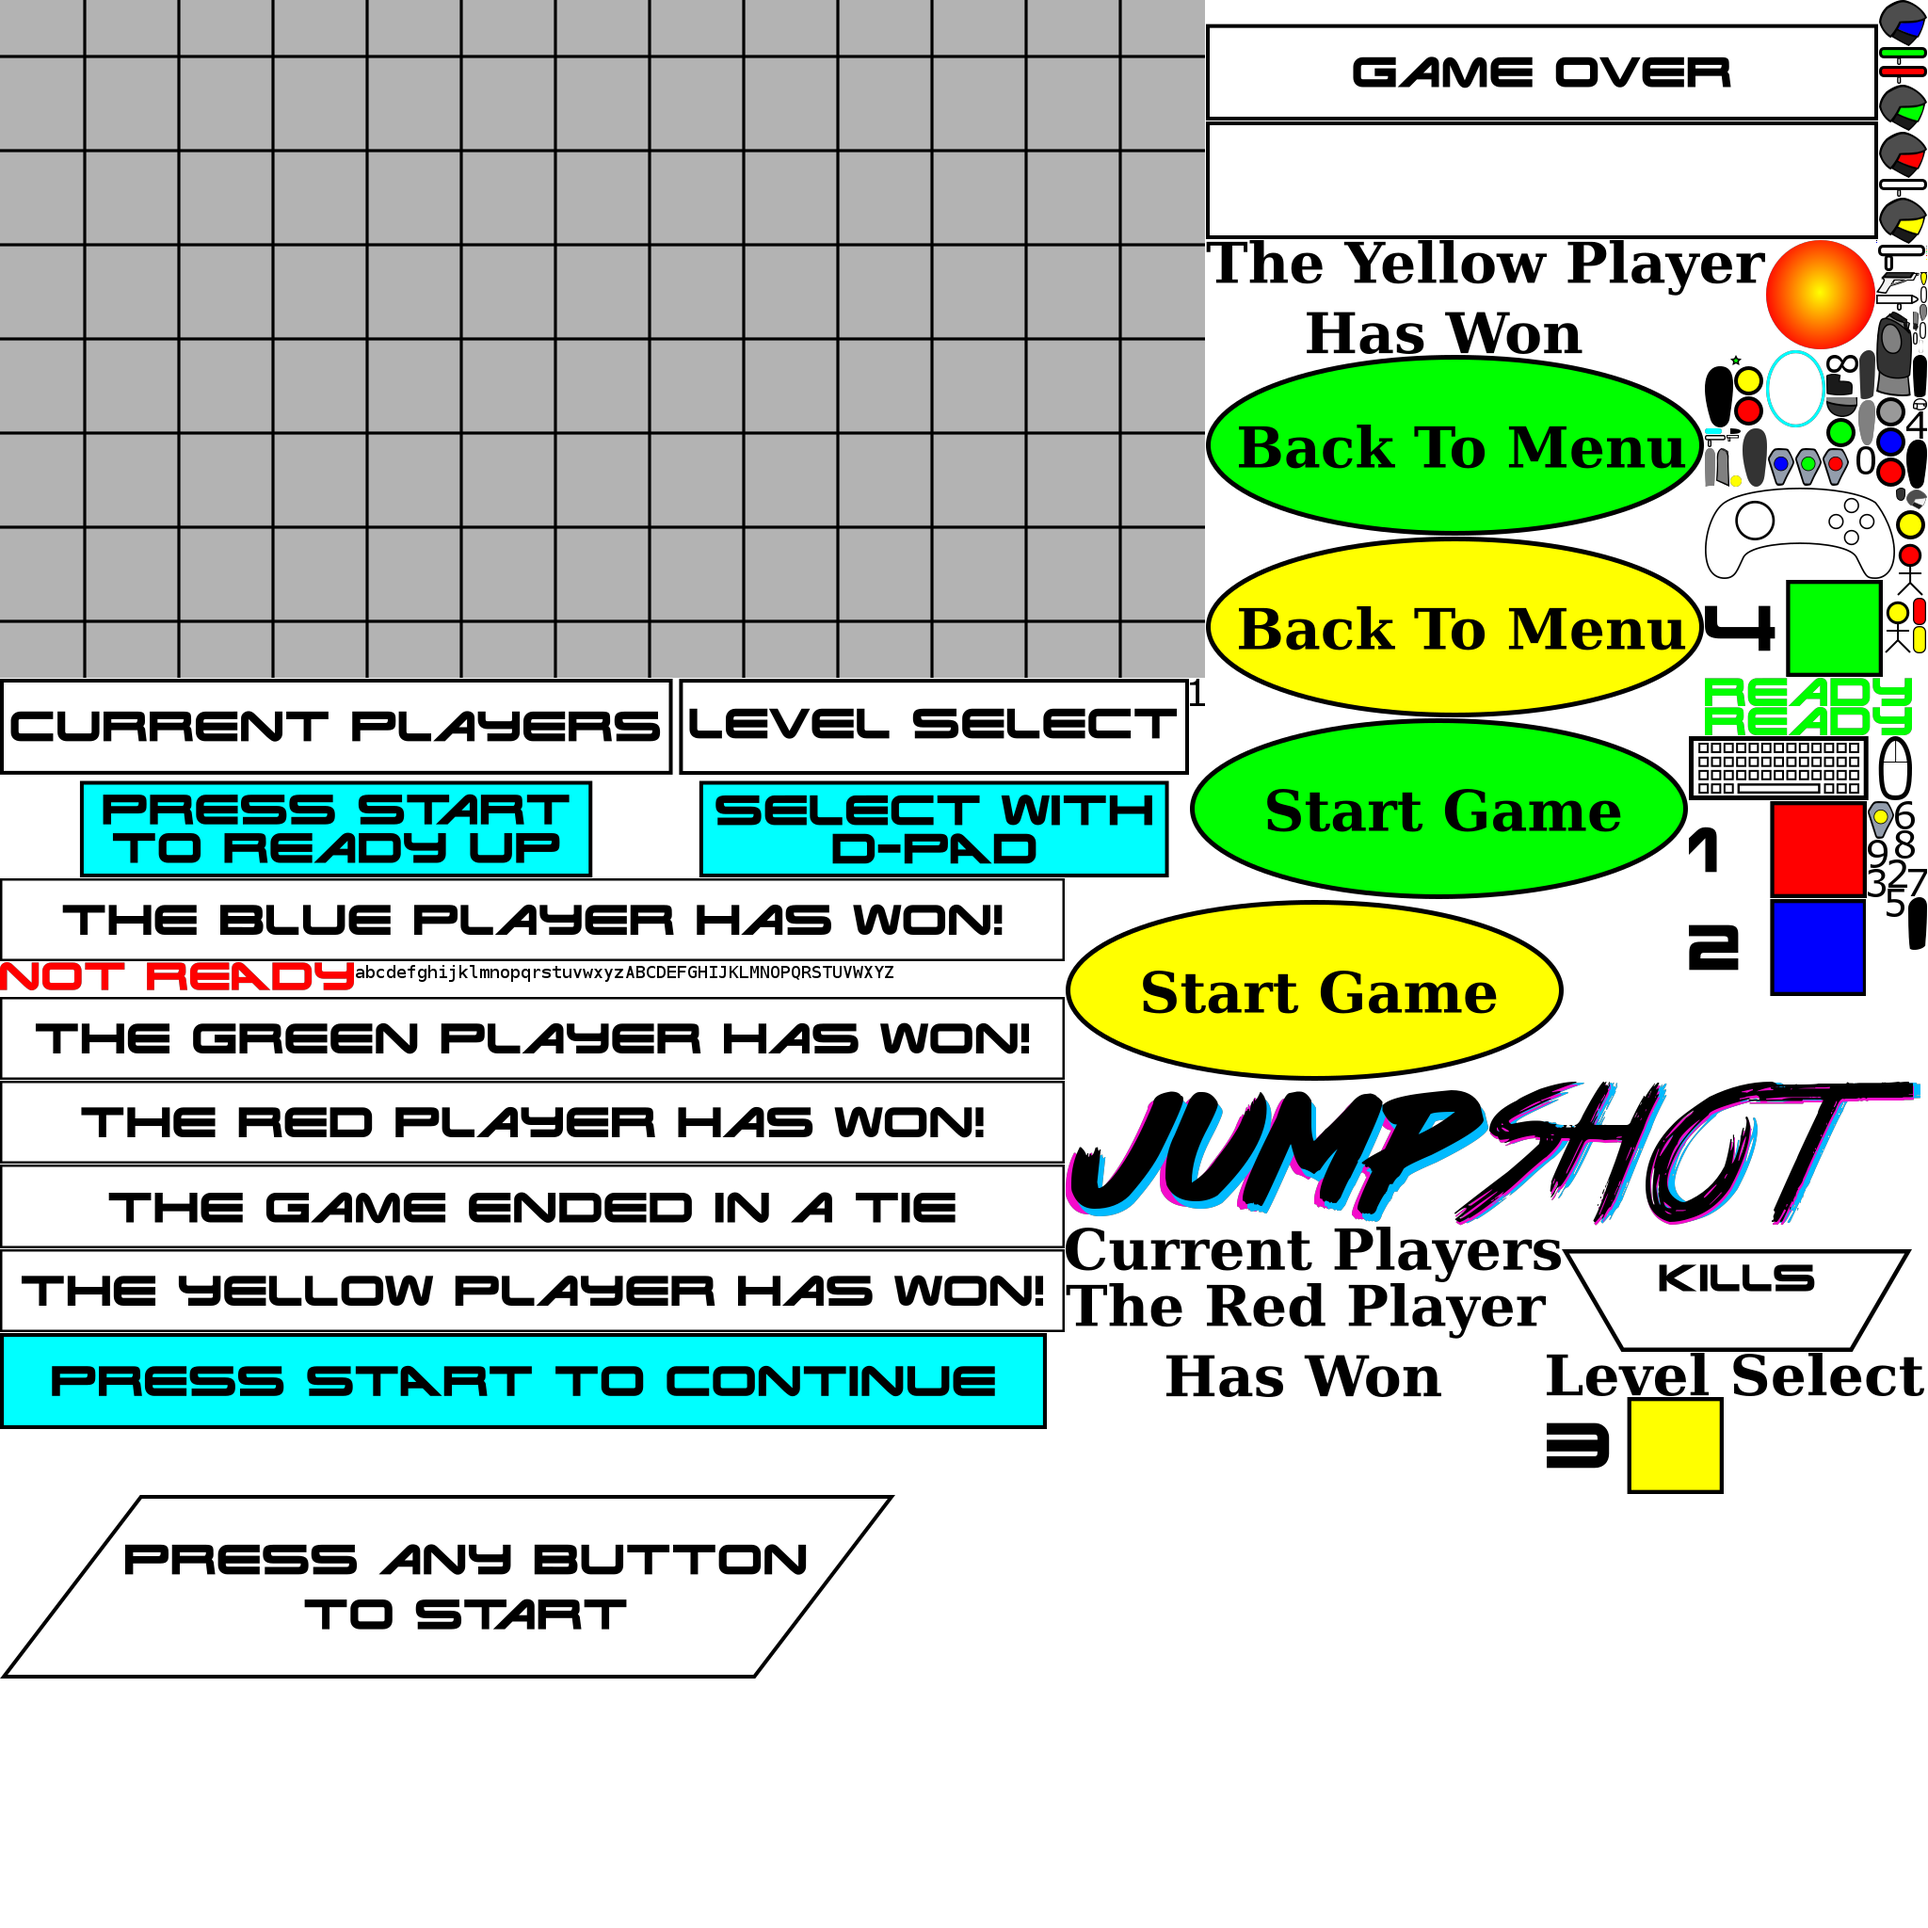
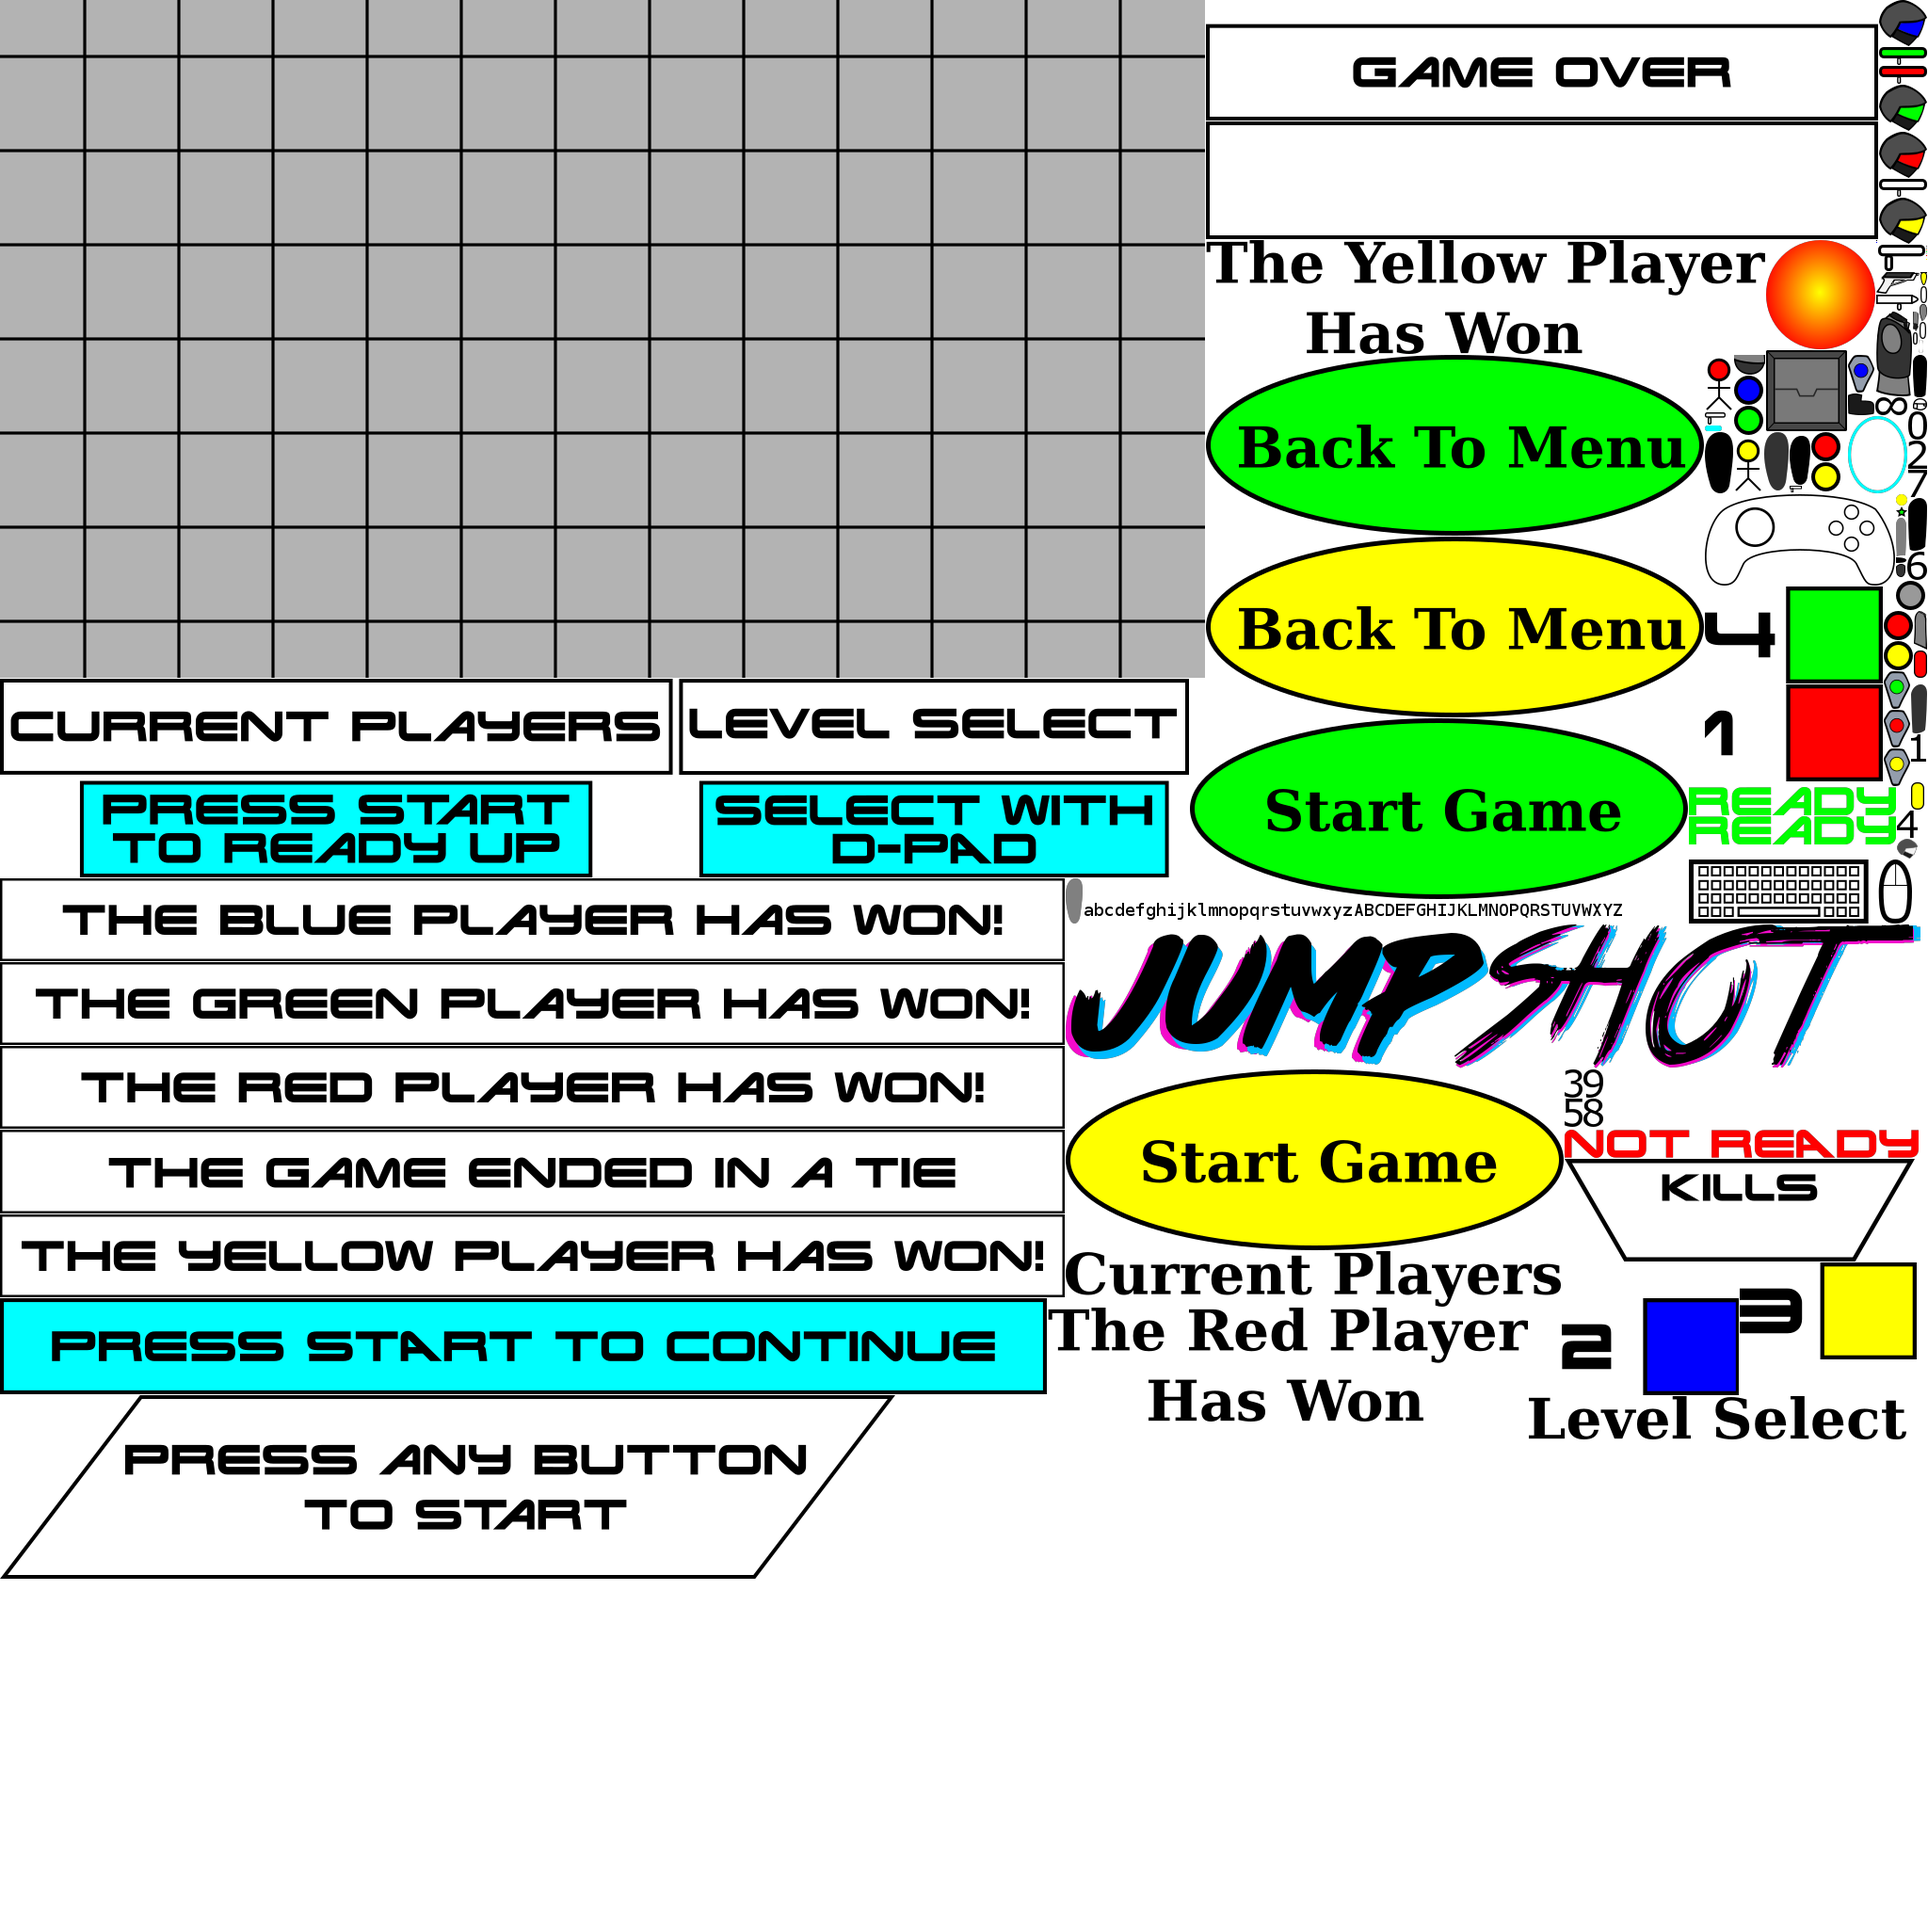
weapon boxes and some new levels

Changed region(s): [[0.0, 0.1562, 1.0, 0.875], [0.5312, 0.4375, 0.5625, 0.4688]]

diff --git a/src/weaponbox.cpp b/src/weaponbox.cpp
@@ -1,10 +1,12 @@
 #include "weaponbox.h"
+#include "magic.h"
 
-WeaponBox::WeaponBox(float x, float y, std::string a_weapon) : pos(x, y, 40, 40), weapon(std::move(a_weapon)) {}
+WeaponBox::WeaponBox(float x, float y, std::string a_weapon) :
+        pos(x, y, 86 * ASSET_SCALE, 86 *ASSET_SCALE), weapon(std::move(a_weapon)) {}
 
 void WeaponBox::render(RenderList& list) const {
     if (!opened) {
-        list.add_rect("red", pos);
+        list.add_scaled_image("box", pos.x, pos.y, ASSET_SCALE, true);
     } else {
         Rectangle weapon_rectangle = list.get_image_dimensions(weapon);
         list.add_rect(weapon, weapon_rectangle.offset(pos.x, pos.y));

diff --git a/src/level.cpp b/src/level.cpp
@@ -14,6 +14,7 @@ const char* const level_names[] = {
     "../assets/level/platforms.json",
     "../assets/level/more_platforms.json",
     "../assets/level/shafts.json",
+    "../assets/level/sprawl.json",
 };
 
 const double line_width = 4;
